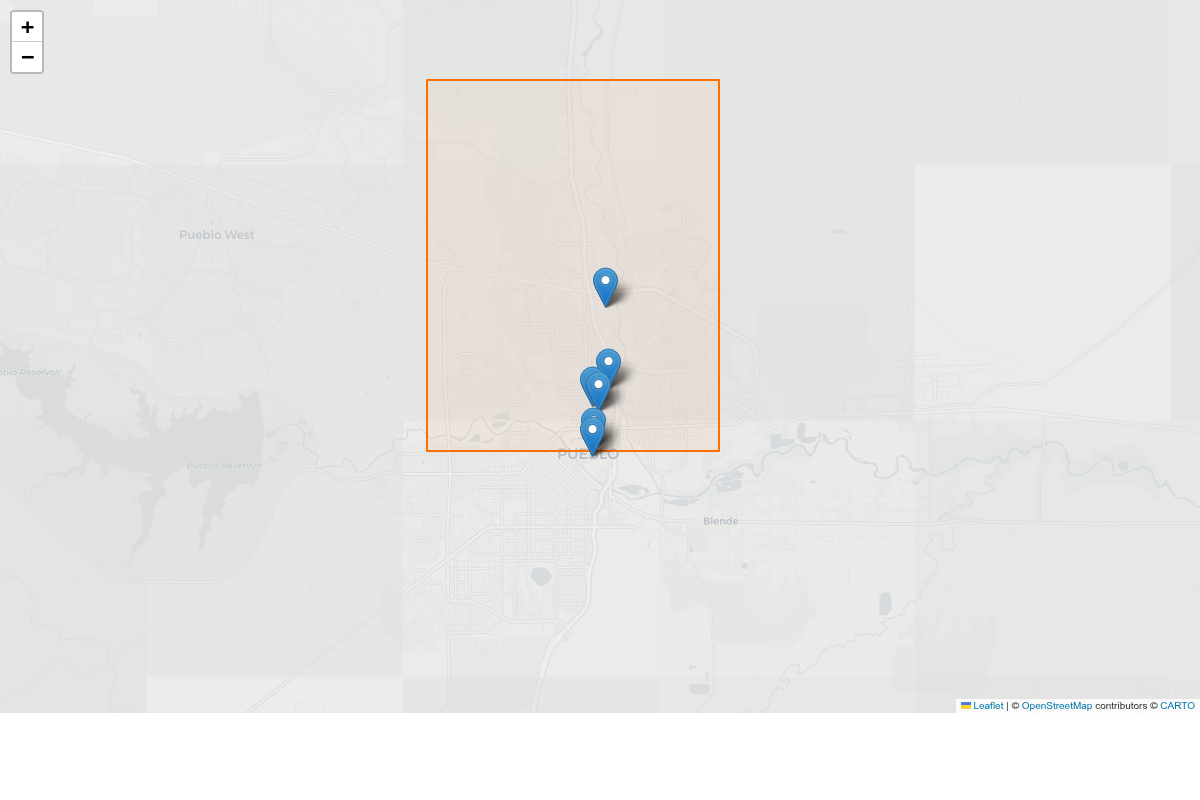
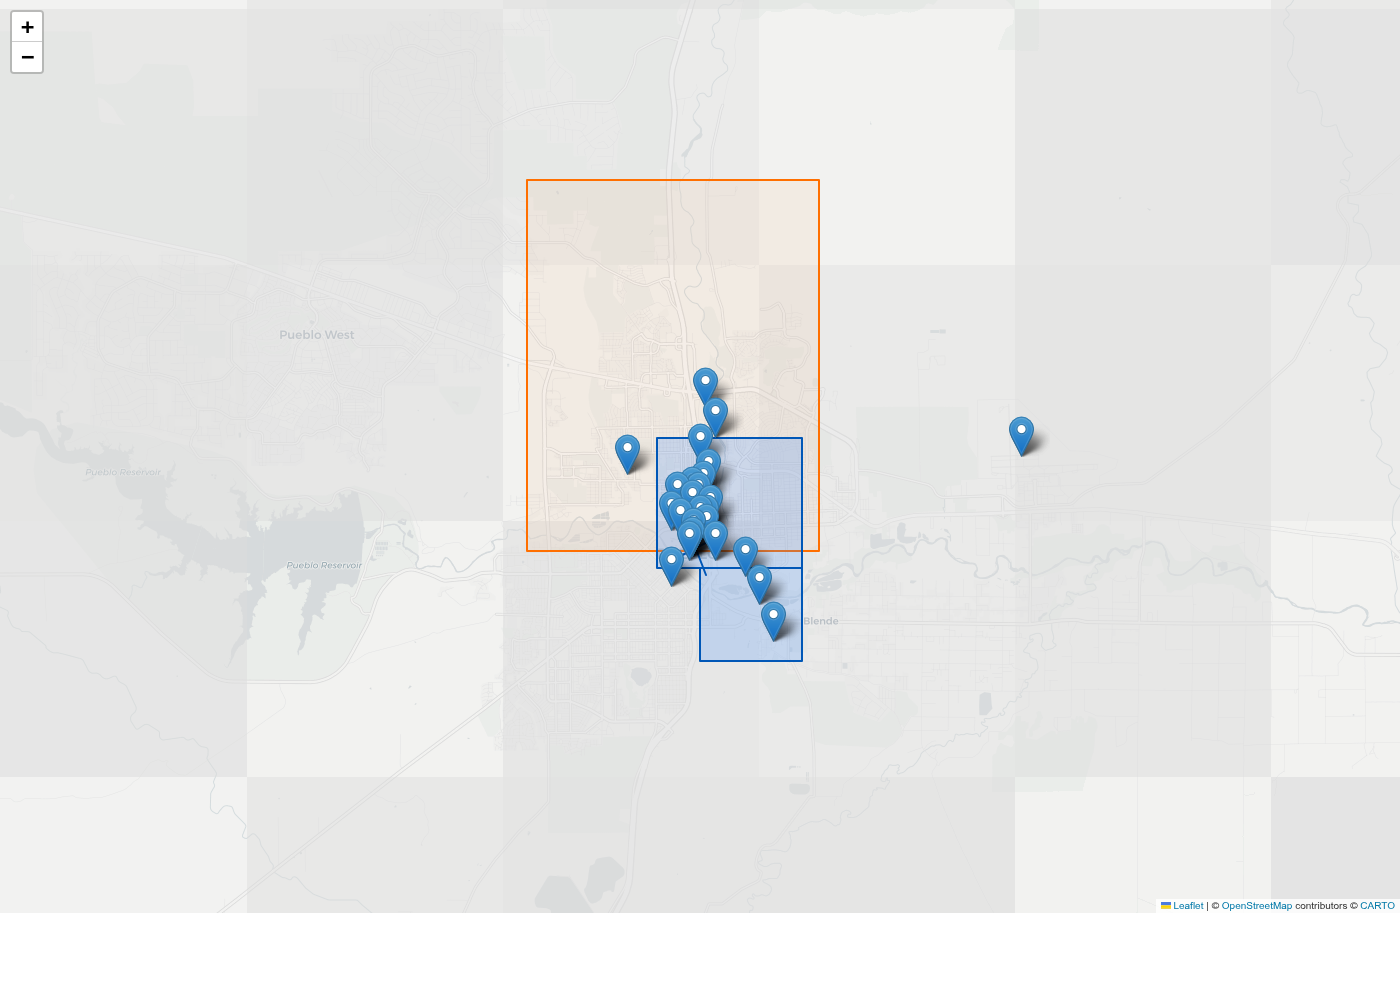
Add prominent surveillance map to README with updated screenshot
- Move map to top of README for immediate visibility
- Generate fresh screenshot with all January 2026 updates (ShotSpotter zones, DFR drone, etc.)
- Add clickable link to interactive HTML map
- Remove duplicate map placement from Data & Map Outputs section
- Update Table of Contents

diff --git a/README.md b/README.md
@@ -1,11 +1,25 @@
 <p align="center" width="100%">
-    <img width="25%" src="assets/asset1.png"> 
+    <img width="25%" src="assets/asset1.png">
 </p>
 
 # La Raza VII.I.IX - A Field Guide on Open Source Intelligence (OSINT) and Technology Primers
 This project equips community journalists, activists, and engaged citizens with the tools, techniques, and knowledge for effective open-source research and secure technology practices, fostering resilience and informed action. It also serves as a research log for secure communication methodologies, independent analysis of community issues, and the development of accessible tech solutions to empower all.
 
 For all of our family.
+
+---
+
+## Pueblo Surveillance Apparatus Map
+
+<p align="center">
+  <a href="docs/maps/pueblo-surveillance-map.html">
+    <img src="docs/maps/pueblo-surveillance-map.png" alt="Pueblo, CO Surveillance Infrastructure Map - RTCC, ShotSpotter, ALPRs, ICE watch sites, and community resources" width="90%">
+  </a>
+</p>
+
+<p align="center"><em>Click to view interactive map | Shows RTCC, ShotSpotter zones, Flock ALPR corridors, DFR drone station, park surveillance, ICE watch sites, and community support services</em></p>
+
+---
 
 ## Latest Updates (January 2026)
 
@@ -53,6 +67,7 @@ For all of our family.
 **Stay safe. The times demand it.**
 
 ## Table of Contents
+- [Pueblo Surveillance Apparatus Map](#pueblo-surveillance-apparatus-map)
 - [Purpose](#purpose)
 - [Disclaimer](#disclaimer)
 - [How to Use This Repo](#how-to-use-this-repo)
@@ -100,10 +115,6 @@ git clone https://github.com/samedayhurt/laraza.git
 - **`scripts/build_pueblo_map.py`** — regenerates the HTML overlay whenever the GeoJSON changes so everyone shares the same situational awareness.
 - **[`docs/digital-footprint-protection.md`](docs/digital-footprint-protection.md)** — ties the research workflow to device hygiene, metadata minimization, and the comms/OPSEC primers so teams keep their digital footprint tight while executing the roadmap.
 - **[`docs/data-legend.md`](docs/data-legend.md)** — summarizes where each dataset/report comes from (census, media, vendor releases, automation scripts) so readers can audit provenance and extend the pipeline transparently.
-
-<p align="center">
-  <img src="docs/maps/pueblo-surveillance-map.png" alt="Pueblo surveillance apparatus map preview" width="70%">
-</p>
 
 ## Roadmap: Guides & Self-Advocacy
 We follow the `AGENTS.md` workflow so research flows into actionable guides that teach Pueblo residents how to advocate for themselves.
